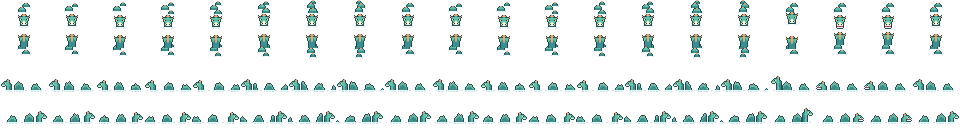
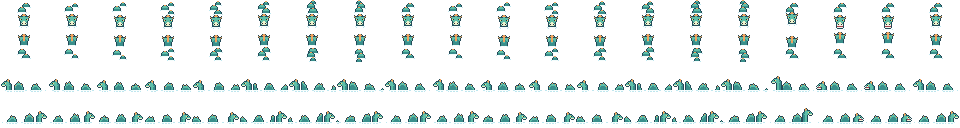
docs(design): wyrm going up: the coils trail behind the head, clear of
Wyrm going up: the coils trail behind the head, clear of the neck

diff --git a/design/enemies/roster/wyrm.py b/design/enemies/roster/wyrm.py
@@ -87,8 +87,6 @@ ofgggf
 ..oGGG
 ..oGGG
 ..oGGG
-..oGGG
-..oGGG
 """)
 
 
@@ -154,14 +152,16 @@ def above(i, down, lift=0, head=None):
         if hh < 1 or ww < 4:
             continue
         cx = w // 2 + round(3 * math.sin(math.pi * s + 0.6))
-        base = round(16 - 4.3 * s) if down else round(13 + 4.3 * s)
+        base = round(16 - 4.3 * s) if down else round(18 + 4.0 * s)      # (going up: clear of the neck, so the body trails behind the head)
         coils.append((base, cx, hump(ww, hh)))
     for base, cx, m in sorted(coils, key=lambda c: c[0]):          # far ones first, near ones over them
         g = over(g, m, cx - len(m[0]) // 2, base - len(m) + 1)
     stamp = head or (FACE if down else NAPE)
     g = over(g, stamp, (w - 12) // 2, head_y)
+    y = head_y + len(stamp)
+    if not down:                                                    # the neck goes into the water: foam round it, and a gap before the first coil
+        g = over(g, ["W" + ("wwwwww" if i % 2 else "w.ww.w") + "W"], (w - 8) // 2, y)
     if down:                                                        # the chin in its foam
-        y = head_y + len(stamp)
         g = over(g, ["W" + ("w" * 8 if i % 2 else "w.wwww.w") + "W", ("..W....W.." if i % 4 < 2 else ".W......W.")], (w - 10) // 2, y)
     return g
 
